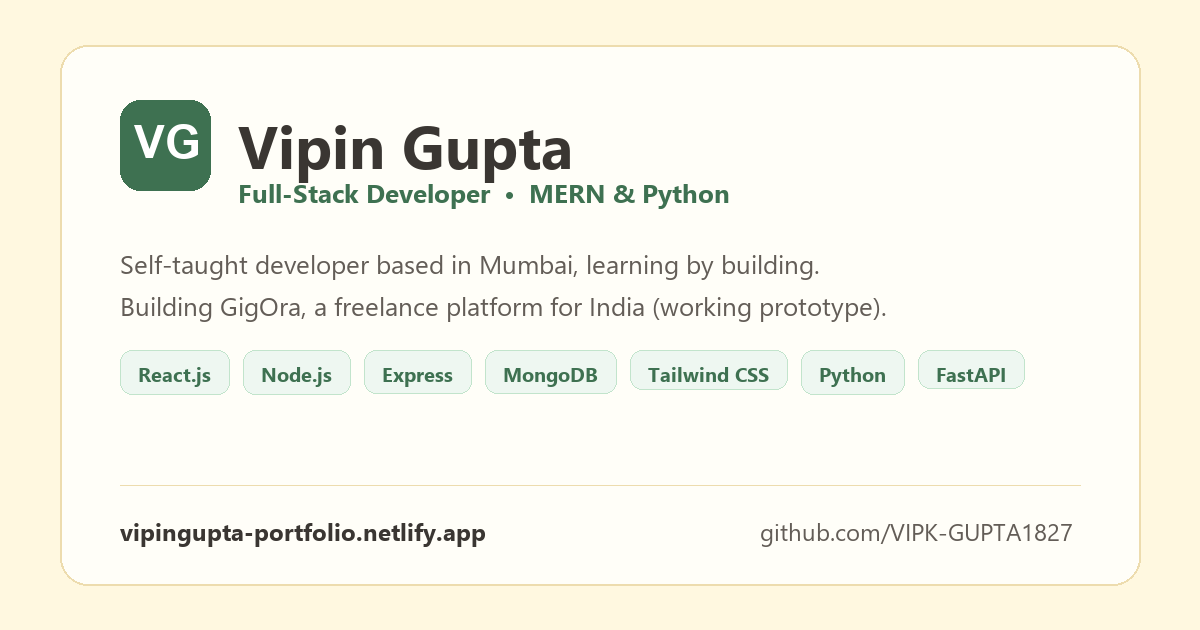
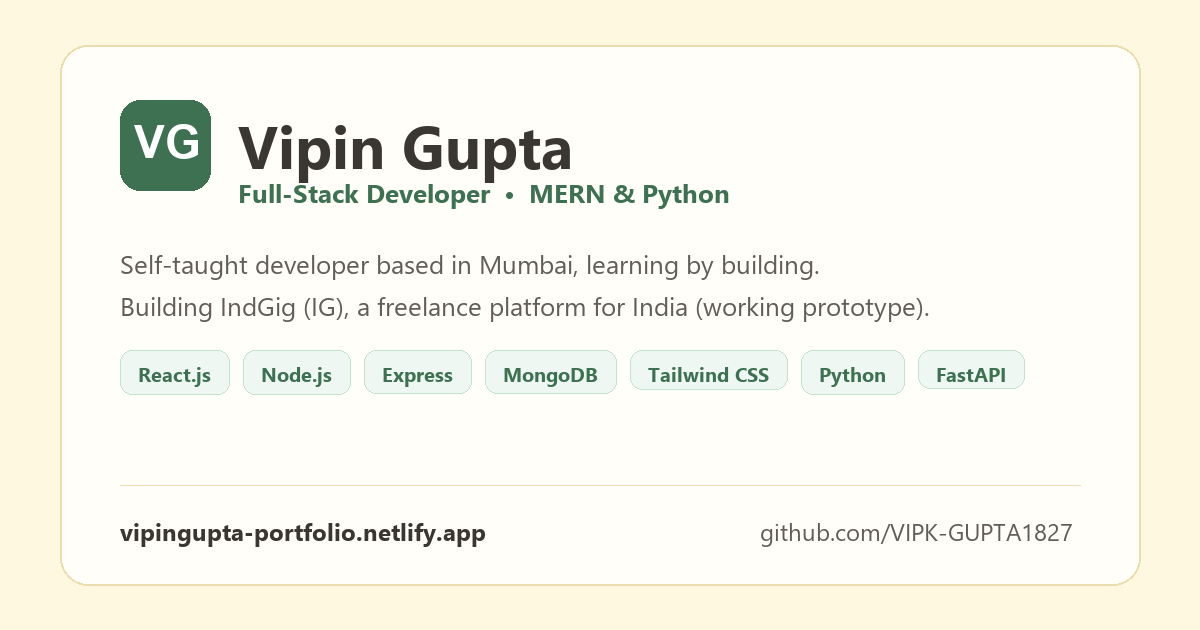
chore(rebrand): rename GigOra to IndGig (IG) across portfolio and share card

Changed region(s): [[0.185, 0.4524, 0.7708, 0.5127]]

diff --git a/index.html b/index.html
@@ -85,8 +85,8 @@
         },
         {
           "@type": "SoftwareApplication",
-          "@id": "https://vipingupta-portfolio.netlify.app/#gigora",
-          "name": "GigOra",
+          "@id": "https://vipingupta-portfolio.netlify.app/#indgig",
+          "name": "IndGig",
           "description": "Full-stack freelance platform for India with demo milestone-payment flow, real-time chat, and Google OAuth.",
           "applicationCategory": "BusinessApplication",
           "operatingSystem": "Web Browser",
@@ -184,7 +184,7 @@
                 <span class="badge-status"><span class="pulse-dot"></span> Open to remote internships and junior roles</span>
                 <h1 class="hero-name">I'm Vipin Gupta.<br>I build with <span class="text-grad">React, Node.js and Python.</span></h1>
                 <h2 class="hero-role"><span class="typed" id="typed">Full-Stack Developer</span></h2>
-                <p class="hero-desc">Self-taught, based in Mumbai, and right now building GigOra, a freelance platform for India.</p>
+                <p class="hero-desc">Self-taught, based in Mumbai, and right now building IndGig, a freelance platform for India.</p>
                 <div class="hero-actions">
                     <a href="#projects" class="btn-grad"><span class="btn-grad-text">View Projects</span><span class="btn-grad-arrow"><svg viewBox="0 0 24 24" aria-hidden="true"><path d="M7 17 17 7M9 7h8v8" fill="none" stroke="currentColor" stroke-width="2.2" stroke-linecap="round" stroke-linejoin="round"/></svg></span></a>
                     <a href="#contact" class="btn-ghost"><i class="fas fa-envelope"></i> Contact Me</a>
@@ -214,7 +214,7 @@
                 </div>
                 <div class="hero-chip">
                     <span class="chip-ico"><i class="fas fa-code"></i></span>
-                    <span><strong>Builder</strong> GigOra</span>
+                    <span><strong>Builder</strong> IndGig</span>
                 </div>
             </div>
         </div>
@@ -240,7 +240,7 @@
                 <h2 class="section-title">About Me</h2>
                 <h3 class="about-hi">Two years of learning by building</h3>
                 <p>I started coding about two years ago with YouTube videos and lectures. I also use AI tools like a tutor, and I'm working on understanding every line I ship.</p>
-                <p>The project that taught me the most is GigOra. Login and protected routes confused me for days until JWT finally made sense. ResumePro showed me how PDFs are generated in the browser, and my Binance Testnet bot was my first Python automation project.</p>
+                <p>The project that taught me the most is IndGig. Login and protected routes confused me for days until JWT finally made sense. ResumePro showed me how PDFs are generated in the browser, and my Binance Testnet bot was my first Python automation project.</p>
                 <p>I started with frontend, but once I began handling APIs, databases, and authentication, backend became just as interesting.</p>
                 <p>Right now I'm learning backend architecture and system design.</p>
                 <ul class="about-meta">
@@ -267,15 +267,15 @@
             <div class="projects-grid">
                 <article class="project-card featured">
                     <div class="card-preview">
-                        <img src="images/gigora-v2.webp" alt="GigOra home page" loading="lazy" width="1200" height="750">
+                        <img src="images/gigora-v2.webp" alt="IndGig home page" loading="lazy" width="1200" height="750">
                         <span class="cat-pill cat-pill-founder">Creator · Working Prototype</span>
                     </div>
                     <div class="card-body">
                         <div class="card-title-row">
-                            <h3>GigOra</h3>
-                            <a href="https://gig-ora.vercel.app/" target="_blank" rel="noopener noreferrer" class="arrow-btn" aria-label="Live Demo: GigOra" title="Live Demo"><svg viewBox="0 0 24 24" aria-hidden="true"><path d="M7 17 17 7M9 7h8v8" fill="none" stroke="currentColor" stroke-width="2.2" stroke-linecap="round" stroke-linejoin="round"/></svg></a>
+                            <h3>IndGig (IG)</h3>
+                            <a href="https://gig-ora.vercel.app/" target="_blank" rel="noopener noreferrer" class="arrow-btn" aria-label="Live Demo: IndGig" title="Live Demo"><svg viewBox="0 0 24 24" aria-hidden="true"><path d="M7 17 17 7M9 7h8v8" fill="none" stroke="currentColor" stroke-width="2.2" stroke-linecap="round" stroke-linejoin="round"/></svg></a>
                         </div>
-                        <p class="card-desc">Freelancers in India have to jump between different sites to find gigs, track work and get paid. GigOra puts all of that in one place. I built the frontend and the backend with Node.js and Express. The hardest part was login and signup, it took me a while to understand JWT tokens. It's a demo for now — no real users yet, but I keep improving it.</p>
+                        <p class="card-desc">Freelancers in India have to jump between different sites to find gigs, track work and get paid. IndGig puts all of that in one place. I built the frontend and the backend with Node.js and Express. The hardest part was login and signup, it took me a while to understand JWT tokens. It's a demo for now — no real users yet, but I keep improving it.</p>
                         <ul class="project-highlights"><li><i class="fas fa-shield-alt"></i> Demo Milestone Payments</li><li><i class="fas fa-comments"></i> Real-time Chat</li><li><i class="fas fa-key"></i> Google OAuth</li></ul>
                         <div class="tech-tags"><span>MongoDB</span><span>Express.js</span><span>React</span><span>Node.js</span><span>Tailwind CSS</span><span>Socket.io</span></div>
                         <div class="card-links"><a href="https://gig-ora.vercel.app/" target="_blank" rel="noopener noreferrer" class="card-link"><i class="fas fa-external-link-alt"></i> Live Demo</a><a href="https://github.com/VIPK-GUPTA1827/GigOra" target="_blank" rel="noopener noreferrer" class="card-link"><i class="fab fa-github"></i> Code</a></div>
@@ -437,7 +437,7 @@
                             <span class="year-pill">Self-taught</span>
                             <h4>Started coding</h4>
                             <span class="tl-place">YouTube, lectures &amp; AI tools</span>
-                            <p>Most of what I know, I learned by building. Integrating JWT authentication in GigOra was the first time backend authorization and protected routes truly clicked for me.</p>
+                            <p>Most of what I know, I learned by building. Integrating JWT authentication in IndGig was the first time backend authorization and protected routes truly clicked for me.</p>
                         </div>
                     </div>
                 </div>
@@ -447,8 +447,8 @@
                         <div class="timeline-item">
                             <span class="year-pill">Working Prototype</span>
                             <h4>Creator &amp; Developer</h4>
-                            <span class="tl-place">GigOra</span>
-                            <p>Building GigOra, a freelance platform for India. Demo for now, no real users yet. Frontend in React, backend in Node.js and Express.</p>
+                            <span class="tl-place">IndGig (IG)</span>
+                            <p>Building IndGig, a freelance platform for India. Demo for now, no real users yet. Frontend in React, backend in Node.js and Express.</p>
                             <a href="https://gig-ora.vercel.app/" target="_blank" rel="noopener noreferrer" class="link-arrow">Live Demo <i class="fas fa-arrow-right"></i></a>
                         </div>
                         <div class="timeline-item">

diff --git a/resume/index.html b/resume/index.html
@@ -107,10 +107,10 @@
         <section class="resume-section section-projects">
             <h2 class="section-title"><i class="fas fa-code-branch"></i> Core Projects</h2>
 
-            <!-- Project 1: GigOra -->
+            <!-- Project 1: IndGig -->
             <article class="project-card">
                 <div class="project-header">
-                    <h3 class="project-name">GigOra — Freelance Platform Prototype</h3>
+                    <h3 class="project-name">IndGig (IG) — Freelance Platform Prototype</h3>
                     <div class="project-links">
                         <a href="https://gig-ora.vercel.app/" target="_blank" rel="noopener noreferrer" class="project-link"><i class="fas fa-external-link-alt"></i> Live Demo</a>
                         <a href="https://github.com/VIPK-GUPTA1827/GigOra" target="_blank" rel="noopener noreferrer" class="project-link"><i class="fab fa-github"></i> Code</a>

diff --git a/script.js b/script.js
@@ -255,7 +255,7 @@ document.addEventListener('DOMContentLoaded', () => {
     // 6. Typing effect for the hero role
     const typedEl = document.getElementById('typed');
     if (typedEl) {
-        const roles = ['Full-Stack Developer', 'MERN & Python', 'Builder, GigOra'];
+        const roles = ['Full-Stack Developer', 'MERN & Python', 'Builder, IndGig'];
         if (!reduceMotion) {
             let roleIndex = 0;
             let charIndex = roles[0].length;

diff --git a/README.md b/README.md
@@ -8,7 +8,7 @@ I'm a self-taught full-stack developer (MERN & Python) from Mumbai. I started co
 
 ## What's on the site
 
-- **GigOra** – my main project, a freelance platform prototype for India (React 19, Node/Express, MongoDB, Socket.io, Tailwind CSS)
+- **IndGig (IG)** – my main project, a freelance platform prototype for India (React 19, Node/Express, MongoDB, Socket.io, Tailwind CSS)
 - **ResumePro**, **BillCraft** and a Python **trading bot** (testnet only)
 - 4 website concepts for businesses (Vortex Digital, Studio Zero, Starry HK Cafe, Tiger Fitness)
 - Skills, learning timeline, interactive resume, and a contact form
